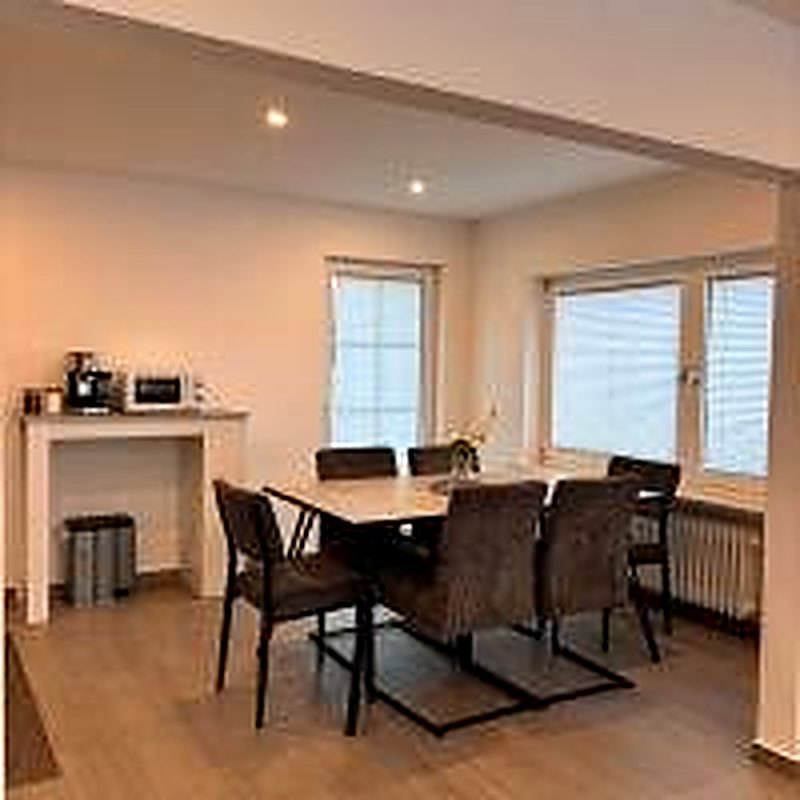
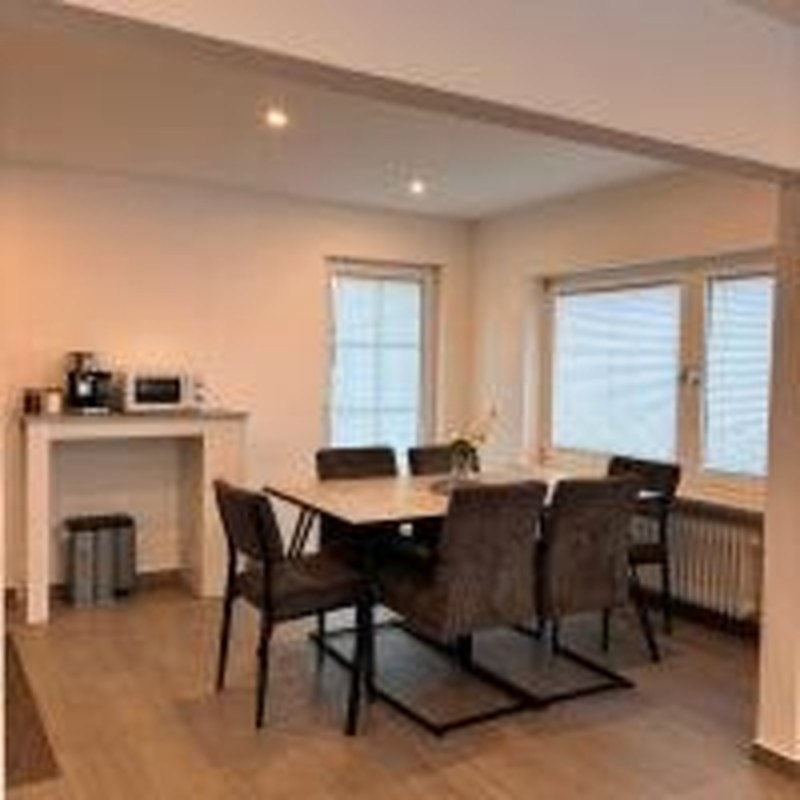
Rework gallery processing, enable mobile videos, add site-wide scroll motion
- Gallery: drop the AI-upscaled CDN swap (looked artificial); images are
  now gently processed locally (denoise, Lanczos, single mild sharpen)
  for a natural look.
- Background videos now play on mobile too (removed 760px gate) and the
  rating band reuses the hero forest video (same file, browser-cached).
- New scroll life across the whole page: gold scroll-progress bar,
  full-page drifting gold-dust particle canvas, orb fields in gallery/
  location/FAQ sections, Ken-Burns parallax on gallery images while
  scrolling, staggered reveals for benefits, amenities, location facts
  and FAQ items. All disabled under prefers-reduced-motion.

diff --git a/index.html b/index.html
@@ -413,9 +413,10 @@
     width:100%;height:100%;
     object-fit:cover;
     transition:transform .45s ease;
+    transform:translateY(var(--py, 0px)) scale(1.09); /* Reserve für Scroll-Parallax */
   }
   .gallery__tile:hover{transform:translateY(-4px);box-shadow:0 16px 30px rgba(29,33,30,0.14);}
-  .gallery__tile:hover img{transform:scale(1.05);}
+  .gallery__tile:hover img{transform:translateY(var(--py, 0px)) scale(1.14);}
   .gallery__tile figcaption{
     position:absolute;left:0;right:0;bottom:0;
     padding:26px 14px 10px;
@@ -774,9 +775,63 @@
   .hero .media-bg{z-index:0;}
   .hero .media-bg video{--media-bg-opacity:0.38;}
   .booking .media-bg video{--media-bg-opacity:0.26;}
+  .rating-band .media-bg video{--media-bg-opacity:0.30;}
 
   /* scroll-parallax hooks (JS setzt transform auf die Felder, nicht die Orbs) */
   .parallax-field{will-change:transform;}
+
+  /* ---------- scroll progress ---------- */
+  .scroll-progress{
+    position:fixed;top:0;left:0;z-index:90;
+    height:3px;width:0%;
+    background:linear-gradient(90deg, var(--brass-deep), var(--brass), var(--brass-soft));
+    box-shadow:0 0 8px rgba(200,144,53,0.55);
+    pointer-events:none;
+  }
+
+  /* ---------- goldstaub-partikel ---------- */
+  .dust-canvas{
+    position:fixed;inset:0;
+    width:100%;height:100%;
+    z-index:55;
+    pointer-events:none;
+    mix-blend-mode:screen;
+  }
+
+  /* ---------- gestaffelte reveals ---------- */
+  .benefit-cards .benefit:nth-child(1){transition-delay:0s;}
+  .benefit-cards .benefit:nth-child(2){transition-delay:.12s;}
+  .benefit-cards .benefit:nth-child(3){transition-delay:.24s;}
+  .amenity-grid .amenity:nth-child(1){transition-delay:0s;}
+  .amenity-grid .amenity:nth-child(2){transition-delay:.07s;}
+  .amenity-grid .amenity:nth-child(3){transition-delay:.14s;}
+  .amenity-grid .amenity:nth-child(4){transition-delay:.21s;}
+  .amenity-grid .amenity:nth-child(5){transition-delay:.28s;}
+  .amenity-grid .amenity:nth-child(6){transition-delay:.35s;}
+  .amenity-grid .amenity:nth-child(7){transition-delay:.42s;}
+  .amenity-grid .amenity:nth-child(8){transition-delay:.49s;}
+  .location__facts li{
+    opacity:0;transform:translateX(-10px);
+    transition:opacity .5s ease,transform .5s ease;
+  }
+  .location-text.is-visible .location__facts li{opacity:1;transform:translateX(0);}
+  .location__facts li:nth-child(1){transition-delay:.1s;}
+  .location__facts li:nth-child(2){transition-delay:.18s;}
+  .location__facts li:nth-child(3){transition-delay:.26s;}
+  .location__facts li:nth-child(4){transition-delay:.34s;}
+  .location__facts li:nth-child(5){transition-delay:.42s;}
+  .location__facts li:nth-child(6){transition-delay:.5s;}
+  .faq details{
+    opacity:0;transform:translateY(10px);
+    transition:opacity .5s ease,transform .5s ease;
+  }
+  .faq.is-visible details{opacity:1;transform:translateY(0);}
+  .faq details:nth-of-type(1){transition-delay:.05s;}
+  .faq details:nth-of-type(2){transition-delay:.12s;}
+  .faq details:nth-of-type(3){transition-delay:.19s;}
+  .faq details:nth-of-type(4){transition-delay:.26s;}
+  .faq details:nth-of-type(5){transition-delay:.33s;}
+  .faq details:nth-of-type(6){transition-delay:.4s;}
 
   /* ---------- reduced motion ---------- */
   @media (prefers-reduced-motion:reduce){
@@ -790,10 +845,17 @@
     .hero__canvas{display:none;}
     .tilt-el{transition:none;}
     .media-bg{display:none;}
+    .scroll-progress,.dust-canvas{display:none;}
+    .gallery__tile img{transform:none;transition:none;}
+    .location__facts li,.faq details{opacity:1;transform:none;transition:none;}
+    .benefit,.amenity{transition-delay:0s;}
   }
 </style>
 </head>
 <body>
+
+<div class="scroll-progress" id="scrollProgress" aria-hidden="true"></div>
+<canvas class="dust-canvas" id="dustCanvas" aria-hidden="true"></canvas>
 
 <header class="site-header">
   <div class="wrap">
@@ -944,6 +1006,10 @@
 </section>
 
 <section class="section" id="galerie">
+  <div class="bg-orb-field" aria-hidden="true">
+    <div class="bg-orb bg-orb--brass-soft" style="width:360px;height:360px;top:-120px;left:-110px;"></div>
+    <div class="bg-orb bg-orb--pine" style="width:300px;height:300px;bottom:-120px;right:-90px;animation-delay:-11s;"></div>
+  </div>
   <div class="wrap">
     <div class="section__head reveal">
       <span class="overline">Galerie</span>
@@ -992,6 +1058,9 @@
 </section>
 
 <section class="section section--tint" id="lage">
+  <div class="bg-orb-field" aria-hidden="true">
+    <div class="bg-orb bg-orb--brass" style="width:340px;height:340px;top:-130px;right:-90px;animation-delay:-5s;"></div>
+  </div>
   <div class="wrap">
     <div class="location-grid">
       <div class="location-text reveal">
@@ -1019,6 +1088,7 @@
 </section>
 
 <section class="rating-band">
+  <div class="media-bg" id="ratingMediaBg" aria-hidden="true"></div>
   <div class="bg-orb-field" aria-hidden="true">
     <div class="bg-orb bg-orb--brass-soft" style="width:460px;height:460px;top:-180px;left:50%;margin-left:-230px;"></div>
   </div>
@@ -1030,6 +1100,10 @@
 </section>
 
 <section class="section" id="faq">
+  <div class="bg-orb-field" aria-hidden="true">
+    <div class="bg-orb bg-orb--pine" style="width:320px;height:320px;top:-110px;left:-100px;animation-delay:-16s;"></div>
+    <div class="bg-orb bg-orb--brass" style="width:280px;height:280px;bottom:-100px;right:-80px;animation-delay:-3s;"></div>
+  </div>
   <div class="wrap">
     <div class="section__head reveal" style="margin-left:auto;margin-right:auto;text-align:center;">
       <span class="overline">Häufige Fragen</span>
@@ -1435,29 +1509,18 @@
     });
   }
 
-  // ---------- Ambiente-Medien (Higgsfield-generiert, CDN-gehostet) ----------
+  // ---------- Ambiente-Videos (Higgsfield-generiert, CDN-gehostet) ----------
   var NERA_CDN = 'https://d8j0ntlcm91z4.cloudfront.net/user_3G8m1bxNBqhjlyBCY2gFUlzpzbo/';
   var NERA_MEDIA = {
     heroVideo: NERA_CDN + 'hf_20260707_183155_d857c55d-e4a7-40a6-90d2-551214ad24a0.mp4',
-    bookingVideo: NERA_CDN + 'hf_20260707_183207_509abbd6-9c07-4995-b75a-823a6e0ff7c8.mp4',
-    hires: {
-      'assets/img/wohnzimmer.jpg':   NERA_CDN + 'hf_20260707_183527_af6cc1d3-11f3-439c-a6a9-33166a90bee5_min.webp',
-      'assets/img/terrasse.jpg':     NERA_CDN + 'hf_20260707_183529_a2d5b762-1c2e-479b-8f71-1b7539e3fafb_min.webp',
-      'assets/img/kueche.jpg':       NERA_CDN + 'hf_20260707_183530_cffd96bb-46e0-4bb6-889a-b8b3b589e333_min.webp',
-      'assets/img/schlafzimmer.jpg': NERA_CDN + 'hf_20260707_183531_830c6467-8515-4483-a0b2-7681306800b7_min.webp',
-      'assets/img/einzelbetten.jpg': NERA_CDN + 'hf_20260707_183533_36118061-5ce3-4683-8465-b4107bf5f979_min.webp',
-      'assets/img/essbereich.jpg':   NERA_CDN + 'hf_20260707_183534_6103a29f-ce17-4439-8c2a-16d94f94b9c8_min.webp',
-      'assets/img/bad.jpg':          NERA_CDN + 'hf_20260707_183535_36c492e3-bfde-428e-ac1f-79025ae5c140_min.webp',
-      'assets/img/garten.jpg':       NERA_CDN + 'hf_20260707_184020_4de0350e-8920-4c09-a09b-3f3b9af1ed04_min.webp',
-      'assets/img/haus.jpg':         NERA_CDN + 'hf_20260707_183632_8c573542-d3a3-40b5-9317-c54edc6b3499_min.webp'
-    }
+    ratingVideo: NERA_CDN + 'hf_20260707_183155_d857c55d-e4a7-40a6-90d2-551214ad24a0.mp4', /* gleiche Datei = Browser-Cache */
+    bookingVideo: NERA_CDN + 'hf_20260707_183207_509abbd6-9c07-4995-b75a-823a6e0ff7c8.mp4'
   };
 
-  // Hintergrund-Videos: lazy, stumm, loopend; bei Fehler bleibt der Verlauf
+  // Hintergrund-Videos: lazy, stumm, loopend; laufen auch mobil; bei Fehler bleibt der Verlauf
   function initBgVideo(containerId, srcUrl){
     if (!srcUrl) return;
     if (prefersReduced) return;
-    if (window.innerWidth < 760) return; // Mobil: Daten & Akku sparen
     var container = document.getElementById(containerId);
     if (!container) return;
     var started = false;
@@ -1484,68 +1547,113 @@
         entries.forEach(function(entry){
           if (entry.isIntersecting){ start(); io.disconnect(); }
         });
-      }, {rootMargin: '300px'});
+      }, {rootMargin: '400px'});
       io.observe(container.parentElement);
     } else {
       start();
     }
   }
   initBgVideo('heroMediaBg', NERA_MEDIA.heroVideo);
+  initBgVideo('ratingMediaBg', NERA_MEDIA.ratingVideo);
   initBgVideo('bookingMediaBg', NERA_MEDIA.bookingVideo);
 
-  // Galerie: 2K-Versionen nachladen, sobald die Kachel in Sichtweite kommt
-  // (Fallback: lokale Datei bleibt, wenn das CDN nicht erreichbar ist)
-  function swapToHires(img, hiUrl){
-    var hi = new Image();
-    hi.onload = function(){ img.src = hiUrl; img.dataset.hires = '1'; };
-    hi.src = hiUrl;
-  }
-  (function initHiresGallery(){
-    var entries = Object.keys(NERA_MEDIA.hires).map(function(localSrc){
-      var img = document.querySelector('.gallery__tile img[src="' + localSrc + '"]');
-      return img ? {img: img, url: NERA_MEDIA.hires[localSrc]} : null;
-    }).filter(Boolean);
-    if (!entries.length) return;
-    if ('IntersectionObserver' in window){
-      var hiresIO = new IntersectionObserver(function(obs){
-        obs.forEach(function(entry){
-          if (!entry.isIntersecting) return;
-          var found = entries.find(function(e){ return e.img === entry.target; });
-          if (found){ swapToHires(found.img, found.url); }
-          hiresIO.unobserve(entry.target);
-        });
-      }, {rootMargin: '400px'});
-      entries.forEach(function(e){ hiresIO.observe(e.img); });
-    } else {
-      entries.forEach(function(e){ swapToHires(e.img, e.url); });
-    }
-  })();
+  // ---------- Scroll-Fortschrittsbalken ----------
+  var progressBar = document.getElementById('scrollProgress');
 
-  // Scroll-Parallax: Orb-Felder und Hero-Canvas driften sanft beim Scrollen
+  // ---------- Scroll-Parallax über die ganze Seite ----------
+  // Orb-Felder, Hero-Canvas, Münze und Galerie-Bilder driften beim Scrollen
+  var parallaxTargets = [];
+  var galleryImgs = [];
   if (!prefersReduced){
-    var parallaxTargets = [];
     document.querySelectorAll('.bg-orb-field').forEach(function(field, i){
       field.classList.add('parallax-field');
-      parallaxTargets.push({el: field, speed: (i % 2 === 0 ? 0.06 : -0.05), parent: field.parentElement});
+      parallaxTargets.push({el: field, speed: (i % 2 === 0 ? 0.07 : -0.06), parent: field.parentElement});
     });
     var heroCanvasEl = document.getElementById('heroCanvas');
     if (heroCanvasEl){ parallaxTargets.push({el: heroCanvasEl, speed: 0.10, parent: heroCanvasEl.parentElement}); }
-    var ticking = false;
-    function applyParallax(){
-      ticking = false;
-      var vh = window.innerHeight;
-      parallaxTargets.forEach(function(t){
-        var rect = t.parent.getBoundingClientRect();
-        if (rect.bottom < -100 || rect.top > vh + 100) return;
-        var progress = (rect.top + rect.height/2 - vh/2) / vh; // -x..x, 0 = Mitte
-        t.el.style.transform = 'translateY(' + (progress * t.speed * -300).toFixed(1) + 'px)';
-      });
-    }
-    window.addEventListener('scroll', function(){
-      if (!ticking){ ticking = true; requestAnimationFrame(applyParallax); }
-    }, {passive:true});
-    applyParallax();
+    galleryImgs = Array.prototype.slice.call(document.querySelectorAll('.gallery__tile img'));
   }
+  var scrollTicking = false;
+  function onScrollFx(){
+    scrollTicking = false;
+    var vh = window.innerHeight;
+    // Fortschrittsbalken
+    if (progressBar){
+      var docH = document.documentElement.scrollHeight - vh;
+      var pct = docH > 0 ? (window.scrollY / docH) * 100 : 0;
+      progressBar.style.width = Math.min(100, Math.max(0, pct)).toFixed(2) + '%';
+    }
+    // Parallax-Felder
+    parallaxTargets.forEach(function(t){
+      var rect = t.parent.getBoundingClientRect();
+      if (rect.bottom < -100 || rect.top > vh + 100) return;
+      var progress = (rect.top + rect.height/2 - vh/2) / vh;
+      t.el.style.transform = 'translateY(' + (progress * t.speed * -300).toFixed(1) + 'px)';
+    });
+    // Galerie: Bilder wandern sanft in ihren Kacheln (Ken-Burns beim Scrollen)
+    galleryImgs.forEach(function(img){
+      var rect = img.getBoundingClientRect();
+      if (rect.bottom < 0 || rect.top > vh) return;
+      var progress = (rect.top + rect.height/2 - vh/2) / vh; // -0.5..0.5 sichtbar
+      img.style.setProperty('--py', (progress * -14).toFixed(2) + 'px');
+    });
+  }
+  window.addEventListener('scroll', function(){
+    if (!scrollTicking){ scrollTicking = true; requestAnimationFrame(onScrollFx); }
+  }, {passive:true});
+  window.addEventListener('resize', onScrollFx);
+  onScrollFx();
+
+  // ---------- Goldstaub: dezente Partikel über die ganze Seite ----------
+  (function initDust(){
+    if (prefersReduced) return;
+    var canvas = document.getElementById('dustCanvas');
+    if (!canvas || !canvas.getContext) return;
+    var ctx = canvas.getContext('2d');
+    var W, H, dpr;
+    var COUNT = window.innerWidth < 760 ? 16 : 34;
+    var parts = [];
+    function resize(){
+      dpr = Math.min(window.devicePixelRatio || 1, 2);
+      W = window.innerWidth; H = window.innerHeight;
+      canvas.width = W * dpr; canvas.height = H * dpr;
+      ctx.setTransform(dpr, 0, 0, dpr, 0, 0);
+    }
+    resize();
+    window.addEventListener('resize', resize);
+    function spawn(randomY){
+      return {
+        x: Math.random() * W,
+        y: randomY ? Math.random() * H : H + 8,
+        r: 0.8 + Math.random() * 1.8,
+        vy: -(0.08 + Math.random() * 0.22),
+        vx: (Math.random() - 0.5) * 0.12,
+        drift: Math.random() * Math.PI * 2,
+        alpha: 0.15 + Math.random() * 0.35
+      };
+    }
+    for (var i = 0; i < COUNT; i++){ parts.push(spawn(true)); }
+    var dustRunning = !document.hidden;
+    document.addEventListener('visibilitychange', function(){ dustRunning = !document.hidden; });
+    function tick(){
+      requestAnimationFrame(tick);
+      if (!dustRunning) return;
+      ctx.clearRect(0, 0, W, H);
+      for (var i = 0; i < parts.length; i++){
+        var p = parts[i];
+        p.drift += 0.01;
+        p.x += p.vx + Math.sin(p.drift) * 0.15;
+        p.y += p.vy;
+        if (p.y < -10 || p.x < -10 || p.x > W + 10){ parts[i] = spawn(false); continue; }
+        var tw = 0.75 + Math.sin(p.drift * 2.2) * 0.25; // Funkeln
+        ctx.beginPath();
+        ctx.arc(p.x, p.y, p.r, 0, Math.PI * 2);
+        ctx.fillStyle = 'rgba(216,166,80,' + (p.alpha * tw).toFixed(3) + ')';
+        ctx.fill();
+      }
+    }
+    tick();
+  })();
 </script>
 
 <script type="module">
